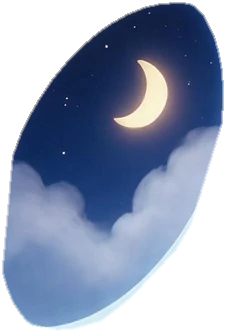
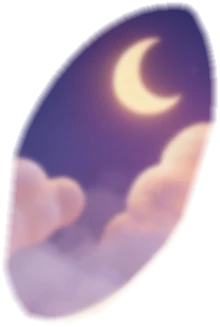
Moon Tap: a no-fail breath break on the mat (presets, open or timed, blooms on taps, practice time saved, hearts per full minute and never for taps). Window views repainted in the plate's soft focus and set deeper inside the frame's bevel

diff --git a/ovu-breathtap.js b/ovu-breathtap.js
@@ -1,0 +1,126 @@
+/* Moon Tap: a no-fail breath break. A ring opens on the in-breath and closes on the out-breath around your
+ * Luna companion. You may tap anywhere for a bloom of light, or only watch. Nothing is scored, tap timing
+ * changes nothing, and stopping at any moment saves the practice time. The design and the review that shaped
+ * it: docs/design/2026-10-18-breath-tap.md, docs/debate/2026-10-18-breath-tap-codex-review.md. */
+(function (root) {
+  'use strict';
+  var PRESETS = {
+    easy: { id: 'easy', name: 'Easy', sub: '3 in, 3 out', inMs: 3000, outMs: 3000 },
+    steady: { id: 'steady', name: 'Steady', sub: '4 in, 4 out', inMs: 4000, outMs: 4000 },
+    longout: { id: 'longout', name: 'Long out', sub: '4 in, 6 out', inMs: 4000, outMs: 6000 },
+    own: { id: 'own', name: 'My own pace', sub: 'a gentle pulse, no words', inMs: 4000, outMs: 4000, quiet: true }
+  };
+  var LENGTHS = [{ min: 3, name: '3 min' }, { min: 4, name: '4 min' }, { min: 5, name: '5 min' }, { min: 0, name: 'Open' }];
+  var MIN_SAVE_S = 5;
+  function ease(x) { x = Math.max(0, Math.min(1, x)); return 0.5 - 0.5 * Math.cos(Math.PI * x); }
+  /* where the ring is t ms into a session: the phase, progress through it, and the ring's size from 0 to 1 */
+  function phaseAt(preset, t) {
+    var p = PRESETS[preset] || PRESETS.easy, cycle = p.inMs + p.outMs, u = ((t % cycle) + cycle) % cycle, n = Math.floor(t / cycle);
+    if (u < p.inMs) { var a = u / p.inMs; return { phase: 'in', progress: a, size: ease(a), cycle: n }; }
+    var b = (u - p.inMs) / p.outMs; return { phase: 'out', progress: b, size: 1 - ease(b), cycle: n };
+  }
+  /* the saved entry: practice time, the preset, whether taps were used. Nothing about accuracy, no breath counts. */
+  function entryFor(seconds, preset, taps, plannedMin) {
+    seconds = Math.max(0, Math.round(Number(seconds) || 0));
+    return { kind: 'breathtap', seconds: seconds, minutes: Math.round(seconds / 6) / 10, preset: PRESETS[preset] ? preset : 'easy', taps: Math.max(0, taps | 0), planned: plannedMin || 0, completed: !!(plannedMin && seconds >= plannedMin * 60 - 2) };
+  }
+
+  /* ---- the screen ---- */
+  var el = null, state = null, raf = 0, opts = {}, audio = null, reduced = false;
+  function h(html) { var d = document.createElement('div'); d.innerHTML = html.trim(); return d.firstChild; }
+  function $(s) { return el ? el.querySelector(s) : null; }
+  function store() { return root.OvuStore || null; }
+  function soundOn() { try { var s = store(); return !s || !!s.state().sound; } catch (e) { return true; } }
+  function build() {
+    if (el) return el;
+    reduced = root.matchMedia && root.matchMedia('(prefers-reduced-motion: reduce)').matches;
+    el = h('<div class="btap" id="btap" role="dialog" aria-label="Moon Tap, a breath break" hidden>' +
+      '<div class="w-stars" aria-hidden="true"></div>' +
+      '<div class="btap-card" id="btapCard">' +
+        '<h2>Moon Tap</h2>' +
+        '<p>Breathe comfortably. Tap if you like, or simply watch. You don’t need to match the ring.</p>' +
+        '<div class="btap-chips" id="btapPresets" role="group" aria-label="Pace"></div>' +
+        '<div class="btap-chips" id="btapLengths" role="group" aria-label="How long"></div>' +
+        '<p class="safe">Breathe gently, without forcing a deeper or longer breath. Stop if you feel dizzy, tingly, short of breath or distressed, and return to your usual breathing.</p>' +
+        '<div class="row"><button type="button" class="btn primary" id="btapBegin"><span class="ms">blur_on</span>Begin</button><button type="button" class="btn ghost" id="btapClose">Close</button></div>' +
+      '</div>' +
+      '<div class="btap-stage" id="btapStage" hidden>' +
+        '<div class="btap-ring" id="btapRing"><img id="btapPet" alt=""></div>' +
+        '<div class="btap-word" id="btapWord" aria-live="polite"></div>' +
+        '<button type="button" class="btn btap-stop" id="btapStop">Stop</button>' +
+      '</div>' +
+      '<div class="btap-card btap-done" id="btapDone" hidden><b>Your pause is saved.</b><p id="btapSum"></p><div class="row"><button type="button" class="btn primary" id="btapDoneClose">Close</button></div></div>' +
+    '</div>');
+    document.body.appendChild(el);
+    $('#btapPresets').innerHTML = Object.keys(PRESETS).map(function (k) { var p = PRESETS[k]; return '<button type="button" data-preset="' + k + '" class="' + (k === 'easy' ? 'on' : '') + '" aria-pressed="' + (k === 'easy') + '">' + p.name + '<small>' + p.sub + '</small></button>'; }).join('');
+    $('#btapLengths').innerHTML = LENGTHS.map(function (L, i) { return '<button type="button" data-min="' + L.min + '" class="' + (i === 0 ? 'on' : '') + '" aria-pressed="' + (i === 0) + '">' + L.name + '</button>'; }).join('');
+    el.addEventListener('click', function (e) {
+      var b = e.target.closest('[data-preset],[data-min]'); if (!b) return;
+      var group = b.parentNode; Array.prototype.forEach.call(group.children, function (c) { c.classList.toggle('on', c === b); c.setAttribute('aria-pressed', c === b); });
+    });
+    $('#btapBegin').addEventListener('click', start);
+    $('#btapClose').addEventListener('click', close);
+    $('#btapDoneClose').addEventListener('click', close);
+    $('#btapStop').addEventListener('click', function () { stop(false); });
+    $('#btapStage').addEventListener('pointerdown', function (e) { if (e.target.closest('#btapStop')) return; bloom(e.clientX, e.clientY); });
+    document.addEventListener('keydown', function (e) { if (!state || el.hidden) return; if (e.key === ' ' || e.key === 'Enter') { if (e.target && /BUTTON|INPUT|TEXTAREA/.test(e.target.tagName)) return; e.preventDefault(); var r = $('#btapRing').getBoundingClientRect(); bloom(r.left + r.width / 2, r.top + r.height / 2); } if (e.key === 'Escape') stop(false); });
+    return el;
+  }
+  function open(o) {
+    opts = o || {}; build();
+    var pet = $('#btapPet'); pet.src = opts.pet || (root.OvuMascot ? OvuMascot.src(null, false) : 'assets/room/dream/orb-bunny.webp');
+    $('#btapCard').hidden = false; $('#btapStage').hidden = true; $('#btapDone').hidden = true; el.hidden = false;
+    document.body.classList.add('btap-open');
+  }
+  function close() { if (state) stop(false, true); if (el) el.hidden = true; document.body.classList.remove('btap-open'); if (opts.onClose) opts.onClose(); }
+  function start() {
+    var preset = ($('#btapPresets .on') || {}).dataset ? $('#btapPresets .on').dataset.preset : 'easy';
+    var plan = Number(($('#btapLengths .on') || { dataset: { min: 3 } }).dataset.min) || 0;
+    state = { preset: preset, plan: plan, startedAt: Date.now(), taps: 0, lastPhase: '' };
+    $('#btapCard').hidden = true; $('#btapDone').hidden = true; $('#btapStage').hidden = false;
+    $('#btapWord').textContent = PRESETS[preset].quiet ? '' : 'in';
+    tick();
+  }
+  function tick() {
+    if (!state) return;
+    var t = Date.now() - state.startedAt, ph = phaseAt(state.preset, t), ring = $('#btapRing'), word = $('#btapWord');
+    if (reduced) { ring.style.transform = 'translate(-50%,-50%) scale(.95)'; ring.style.opacity = String(0.55 + 0.45 * ph.size); }
+    else ring.style.transform = 'translate(-50%,-50%) scale(' + (0.72 + 0.38 * ph.size).toFixed(3) + ')';
+    if (ph.phase !== state.lastPhase) { state.lastPhase = ph.phase; if (!PRESETS[state.preset].quiet) word.textContent = ph.phase === 'in' ? 'in' : 'out'; }
+    if (state.plan && t >= state.plan * 60000) { stop(true); return; }
+    raf = root.requestAnimationFrame(tick);
+  }
+  function bloom(x, y) {
+    if (!state) return;
+    state.taps += 1;
+    var r = el.getBoundingClientRect(), p = document.createElement('span'); p.className = 'btap-petal'; p.style.left = (x - r.left) + 'px'; p.style.top = (y - r.top) + 'px';
+    $('#btapStage').appendChild(p); setTimeout(function () { p.remove(); }, 1500);
+    tone(); haptic();
+  }
+  function tone() {
+    if (!soundOn()) return;
+    try {
+      audio = audio || new (root.AudioContext || root.webkitAudioContext)();
+      [220, 330].forEach(function (f, i) {
+        var o = audio.createOscillator(), g = audio.createGain(); o.type = 'sine'; o.frequency.value = f;
+        g.gain.setValueAtTime(0.0001, audio.currentTime); g.gain.exponentialRampToValueAtTime(i ? 0.03 : 0.05, audio.currentTime + 0.05); g.gain.exponentialRampToValueAtTime(0.0001, audio.currentTime + 1.1);
+        o.connect(g); g.connect(audio.destination); o.start(); o.stop(audio.currentTime + 1.2);
+      });
+    } catch (e) { /* no audio */ }
+  }
+  function haptic() { try { if (root.navigator && root.navigator.vibrate) root.navigator.vibrate(12); } catch (e) { } }
+  function stop(completed, silent) {
+    if (!state) return null;
+    root.cancelAnimationFrame(raf);
+    var seconds = (Date.now() - state.startedAt) / 1000, data = entryFor(seconds, state.preset, state.taps, state.plan), ev = null, s = store();
+    state = null;
+    if (data.seconds >= MIN_SAVE_S && s) { try { ev = s.add('mindfulness', s.today(), data, 'room'); if (opts.onSaved) opts.onSaved(ev); } catch (e) { ev = null; } }
+    if (silent) return ev;
+    $('#btapStage').hidden = true; $('#btapDone').hidden = false;
+    var m = Math.floor(data.seconds / 60), sec = data.seconds % 60;
+    $('#btapDone b').textContent = ev ? 'Your pause is saved.' : 'That was a short one.';
+    $('#btapSum').textContent = (ev ? 'Practice time ' + (m ? m + ' min ' : '') + sec + ' s' : 'Stay a little longer next time and it will count as practice time') + (data.taps ? ' · ' + data.taps + (data.taps === 1 ? ' bloom' : ' blooms') : '') + '.';
+    return ev;
+  }
+  root.OvuBreathTap = { PRESETS: PRESETS, LENGTHS: LENGTHS, MIN_SAVE_S: MIN_SAVE_S, phaseAt: phaseAt, entryFor: entryFor, open: open, close: close, start: start, stop: stop };
+})(typeof window !== 'undefined' ? window : this);

diff --git a/room.js b/room.js
@@ -32,7 +32,7 @@
       sleeper: { x: 31, y: 58, w: 21, rot: 34 }, zzz: { x: 30, y: 44 },
       meditator: { x: 28, y: 77, w: 11.5 }, aura: { x: 28, y: 75, w: 18 }, holo: { x: 39, y: 75, w: 15 },
       window: { x: 37.3, y: 31.5, rx: 7, ry: 9.6 },
-      winPatch: { x: 29.144, y: 23.261, w: 15.353, base: 'room-v3-win-' },
+      winPatch: { x: 29.348, y: 23.424, w: 14.946, base: 'room-v3-win-' },
       props: { cat: { x: 50, y: 88, w: 9 }, dog: { x: 12, y: 74, w: 9.5 }, plant: { x: 78, y: 77, w: 9 }, bookshelf: { x: 87, y: 66, w: 10 }, lamp: { x: 84, y: 76, w: 7 }, mushlamp: { x: 84, y: 76, w: 7.5 }, starlamp: { x: 84, y: 76, w: 6.2 }, beanbag: { x: 54.5, y: 69.5, w: 10 }, armchair: { x: 54.5, y: 70, w: 11 }, scale: { x: 40, y: 73.5, w: 7 }, mewmew: { x: 62, y: 88, w: 12 } }
     },
     house: {
@@ -1811,13 +1811,14 @@
       '<div class="erin"><img src="assets/avatars/erin/erin-chibi-face.webp" alt="Erin Lee"><div><b>Erin Lee · Mindful Moments</b><small>Certified MBSR mindfulness teacher and author in Singapore. When you begin, the sheet closes and Erin’s projection sits beside you on the mat, speaking in her voice: a greeting, settling in, slow breaths with gentle reminders, and a soft close. Her words are shown as captions.</small><a href="https://mindfulmoments.sg/" target="_blank" rel="noopener">mindfulmoments.sg</a></div></div>' +
       '<div class="sessions" id="sessions"><button type="button" class="session on" data-kind="erin" data-min="3"><b>Erin · 3 minutes</b><small>Guided breathing, a soft close</small></button><button type="button" class="session" data-kind="erin" data-min="6"><b>Erin · 6 minutes</b><small>A longer settle and more reminders</small></button><button type="button" class="session" data-kind="breathe" data-min="2"><b>Just breathe · 2 min</b><small>4-4-6 orb with a quiet bell</small></button><button type="button" class="session" data-kind="breathe" data-min="5"><b>Just breathe · 5 min</b><small>Silent, follow the orb</small></button></div>' +
       '<div class="orbwrap"><div class="orb out" id="orb"></div><div class="orbtext" id="orbText">Ready when you are</div><div class="orbsub" id="orbSub">' + (mins ? Math.round(mins) + ' min this week' : 'First session this week') + '</div></div>' +
-      '<div class="row"><button class="btn primary" id="mindStart"><span class="ms">self_improvement</span>Begin</button><button class="btn soft" id="mindAcu"><span class="ms">spa</span>Cramp relief points</button></div>' +
-      '<div class="row"><button type="button" class="btn soft" id="mindEveryday"><span class="ms">home</span>Everyday practice</button><a class="btn ghost" href="https://erinmindfulmoments.substack.com/p/the-quiet-work-of-change" target="_blank" rel="noopener"><span class="ms">article</span>Read Erin</a></div>' +
+      '<div class="row"><button class="btn primary" id="mindStart"><span class="ms">self_improvement</span>Begin</button><button type="button" class="btn soft" id="mindTap"><span class="ms">blur_on</span>Moon Tap</button></div>' +
+      '<div class="row"><button class="btn soft" id="mindAcu"><span class="ms">spa</span>Cramp relief points</button><button type="button" class="btn soft" id="mindEveryday"><span class="ms">home</span>Everyday practice</button><a class="btn ghost" href="https://erinmindfulmoments.substack.com/p/the-quiet-work-of-change" target="_blank" rel="noopener"><span class="ms">article</span>Read Erin</a></div>' +
       '<p class="help">Sessions of a minute or more are saved to your journal. Erin’s clips are pre-recorded in her cloned voice (with her consent), so this works offline once loaded.</p>');
     $('#sessions').addEventListener('click', function (e) { var b = e.target.closest('.session'); if (!b || session) return; $$('.session').forEach(function (x) { x.classList.toggle('on', x === b); }); });
     $('#mindStart').addEventListener('click', function () { if (session) return; var sel = $('.session.on'); runSession(sel.dataset.kind, Number(sel.dataset.min)); });
     $('#mindAcu').addEventListener('click', openAcupressure);
     $('#mindEveryday').addEventListener('click', function () { openEveryday(); });
+    $('#mindTap').addEventListener('click', function () { if (!window.OvuBreathTap) return; chime('tap'); hideSheet(); OvuBreathTap.open({ pet: window.OvuMascot ? OvuMascot.src(null, false) : null, onSaved: function (ev) { afterSave(ev); }, onClose: function () { renderDeck(); } }); });
   }
 
   /* ---------- acupressure: numbered points on your avatar, then a zoomed locator ---------- */

diff --git a/tools/test-core.js b/tools/test-core.js
@@ -13,7 +13,7 @@ function fresh(todayIso) {
   w.window = w; w.self = w; w.globalThis = w;
   var ctx = vm.createContext(w);
   w.Uint8Array = Uint8Array; w.ArrayBuffer = ArrayBuffer; w.isFinite = isFinite; w.isNaN = isNaN; w.Blob = Blob; w.File = File;
-  ['ovu-store.js', 'ovu-food.js', 'ovu-nova.js', 'ovu-agents.js', 'ovu-orb.js', 'ovu-rewards.js', 'ovu-pets.js', 'ovu-pdf.js', 'ovu-mascot.js', 'assets/vendor/fflate-0.8.2.umd.min.js', 'ovu-health.js'].forEach(function (f) { vm.runInContext(fs.readFileSync(path.join(root, f), 'utf8'), ctx, { filename: f }); });
+  ['ovu-store.js', 'ovu-food.js', 'ovu-nova.js', 'ovu-agents.js', 'ovu-orb.js', 'ovu-rewards.js', 'ovu-pets.js', 'ovu-pdf.js', 'ovu-mascot.js', 'assets/vendor/fflate-0.8.2.umd.min.js', 'ovu-health.js', 'ovu-breathtap.js'].forEach(function (f) { vm.runInContext(fs.readFileSync(path.join(root, f), 'utf8'), ctx, { filename: f }); });
   if (todayIso) { var S = w.OvuStore; if (typeof S.today === 'function') { S._today = S.today; S.today = function () { return todayIso; }; } }
   return w;
 }
@@ -609,6 +609,27 @@ function scenes(todayIso) {
   check('every shelf item has a sprite on disk', RW.SHOP.filter(function (s) { return s.kind === 'treat' || s.kind === 'accessory'; }).every(function (s) { return fs.existsSync(path.join(root, 'assets/room/dream', s.img)); }));
   check('every pet has a rendered sprite for every accessory', ['cat', 'catblack', 'catginger', 'dog', 'shiba', 'mewmew'].every(function (id) { return ['acc-bow', 'acc-hat', 'acc-bandana', 'acc-charm'].every(function (acc) { var f = P.wornSprite(id, acc); return f && fs.existsSync(path.join(root, 'assets/room/dream', f)); }); }));
   check('head and neck spots exist for every pet', ['cat', 'catblack', 'catginger', 'dog', 'shiba', 'mewmew'].every(function (id) { return P.wearSpot(id, 'head').w > 0 && P.wearSpot(id, 'neck').w > 0; }));
+})();
+
+(function moonTap() {
+  console.log('Moon Tap: the ring follows the preset, stopping saves seconds, hearts never depend on taps');
+  var w = fresh(), T = w.OvuBreathTap, RW = w.OvuRewards, S = w.OvuStore;
+  var p0 = T.phaseAt('easy', 0), p1 = T.phaseAt('easy', 1500), p2 = T.phaseAt('easy', 3000), p3 = T.phaseAt('easy', 6000), p4 = T.phaseAt('longout', 4000 + 3000);
+  check('easy starts closed on the in-breath', p0.phase === 'in' && p0.size < 0.01);
+  check('halfway through the in-breath the ring is half open', p1.phase === 'in' && Math.abs(p1.size - 0.5) < 0.01, p1.size);
+  check('at three seconds the out-breath begins fully open', p2.phase === 'out' && p2.size > 0.99);
+  check('six seconds later a new cycle starts', p3.cycle === 1 && p3.phase === 'in');
+  check('long out: three seconds into the six second out-breath is half way', p4.phase === 'out' && Math.abs(p4.progress - 0.5) < 0.01);
+  var e = T.entryFor(50.4, 'steady', 3, 3);
+  check('an early stop keeps the seconds, the preset and the taps, and is not completed', e.seconds === 50 && e.preset === 'steady' && e.taps === 3 && !e.completed && e.minutes === 0.8, JSON.stringify(e));
+  check('a full planned session counts as completed', T.entryFor(179, 'easy', 0, 3).completed === true);
+  var l0 = RW.ledger(), before = l0.hearts, day = l0.lastDay;
+  var r1 = RW.award(S.add('mindfulness', S.today(), T.entryFor(50, 'easy', 40, 0), 'room'));
+  var r2 = RW.award(S.add('mindfulness', S.today(), T.entryFor(55, 'easy', 0, 0), 'room'));
+  check('fifty seconds earns nothing yet, the next fifty-five complete a minute for two hearts', r1.points === 0 && r2.points === 2 && RW.ledger().hearts === before + 2, r1.points + '/' + r2.points);
+  check('the leftover forty-five seconds carry on', RW.ledger().breathCarry === 45, RW.ledger().breathCarry);
+  check('Moon Tap never touches the daily streak', RW.ledger().lastDay === day && r2.bonus === 0);
+  check('taps change nothing: forty taps and none earned the same', r1.points === 0);
 })();
 
 console.log('\n' + passes + ' passed, ' + fails + ' failed');

diff --git a/room.css b/room.css
@@ -1303,3 +1303,30 @@ textarea.input{min-height:72px;resize:vertical;line-height:1.4}
 .itemcard small{display:flex;align-items:center;gap:4px;margin-top:5px;font:700 11.5px var(--sans);color:var(--rm-ink-3)}
 .itemcard small .ms{font-size:14px;color:#e58aa8}
 @media (prefers-reduced-motion: reduce){.shopprop.kind-pet img{animation:none!important}}
+
+/* Moon Tap: a no-fail breath break (ovu-breathtap.js) */
+.btap{position:fixed;inset:0;z-index:120;display:flex;align-items:center;justify-content:center;background:radial-gradient(120% 90% at 50% 10%,#3b2a5e 0%,#1b1330 60%,#120c22 100%);color:#f1e9fb;font-family:var(--sans);overflow:hidden;padding:16px}
+.btap[hidden]{display:none}
+.btap .w-stars{opacity:.9}
+.btap-card{position:relative;z-index:2;width:min(92vw,400px);background:rgba(255,255,255,.08);backdrop-filter:blur(14px);-webkit-backdrop-filter:blur(14px);border:1px solid rgba(255,255,255,.14);border-radius:24px;padding:20px 18px;display:flex;flex-direction:column;gap:12px;text-align:center}
+.btap-card[hidden]{display:none}
+.btap-card h2{font-family:var(--serif);font-weight:600;font-size:26px;color:#fff}
+.btap-card p{font:600 13px/1.5 var(--sans);color:#d9cdef}
+.btap-card .safe{font:600 11.5px/1.5 var(--sans);color:#b9abd6}
+.btap-chips{display:flex;flex-wrap:wrap;gap:8px;justify-content:center}
+.btap-chips button{border:1px solid rgba(255,255,255,.18);background:rgba(255,255,255,.08);color:#f1e9fb;border-radius:999px;padding:8px 12px;font:800 12px var(--sans);cursor:pointer;min-width:0}
+.btap-chips button.on{background:#f1e9fb;color:#3b2d52}
+.btap-chips button small{display:block;font:600 10px var(--sans);opacity:.8}
+.btap .btn.primary{box-shadow:0 10px 26px rgba(117,86,196,.45),0 0 28px rgba(226,210,255,.4)}
+.btap .btn.ghost{color:#d9cdef;border-color:rgba(255,255,255,.2)}
+.btap-stage{position:absolute;inset:0;z-index:1;touch-action:manipulation;cursor:pointer}
+.btap-stage[hidden]{display:none}
+.btap-ring{position:absolute;left:50%;top:44%;width:min(62vw,300px);aspect-ratio:1;transform:translate(-50%,-50%) scale(.75);border-radius:50%;border:2px solid rgba(255,255,255,.55);box-shadow:0 0 40px rgba(214,196,255,.45),inset 0 0 40px rgba(214,196,255,.25);display:flex;align-items:center;justify-content:center;will-change:transform;pointer-events:none}
+.btap-ring img{width:48%;filter:drop-shadow(0 0 18px rgba(255,236,190,.6));animation:moonfloat 6s ease-in-out infinite}
+.btap-word{position:absolute;left:50%;top:calc(44% + min(31vw,150px) + 26px);transform:translateX(-50%);font-family:var(--serif);font-size:26px;color:#fff;letter-spacing:.08em;opacity:.9;pointer-events:none}
+.btap-stop{position:absolute;left:50%;bottom:calc(28px + env(safe-area-inset-bottom,0px));transform:translateX(-50%);min-width:140px;flex:none;background:rgba(255,255,255,.12);color:#fff;border:1px solid rgba(255,255,255,.22)}
+.btap-petal{position:absolute;width:26px;height:26px;margin:-13px 0 0 -13px;border-radius:50%;background:radial-gradient(circle,#fff7e6 0%,rgba(255,214,236,.85) 35%,rgba(214,196,255,0) 70%);pointer-events:none;animation:btapbloom 1.4s ease-out forwards}
+@keyframes btapbloom{0%{transform:scale(.4);opacity:0}20%{opacity:1}100%{transform:scale(4.2);opacity:0}}
+.btap-done b{display:block;font-family:var(--serif);font-weight:600;font-size:22px;color:#fff}
+body.btap-open{overflow:hidden}
+@media(prefers-reduced-motion:reduce){.btap-ring{transition:opacity .6s}.btap-ring img{animation:none}.btap-petal{animation-duration:.8s}}

diff --git a/ovu-rewards.js b/ovu-rewards.js
@@ -50,6 +50,13 @@
   /* Award for a saved entry; a first log on a new day also grows the streak. */
   function award(ev) {
     if (ev.type === 'weight') return { points: 0, bonus: 0, hearts: ledger().hearts }; /* numbers are never rewarded */
+    if (ev.type === 'mindfulness' && ev.data && ev.data.kind === 'breathtap') {
+      /* Moon Tap: 2 hearts per full minute of practice, seconds carried between sessions, capped like other practice, no streak bonus, nothing for taps */
+      var lb = ledger(), carry = (lb.breathCarry || 0) + Math.max(0, Number(ev.data.seconds) || 0), whole = Math.floor(carry / 60), bp = Math.min(20, whole * 2);
+      lb.breathCarry = carry - whole * 60;
+      if (bp) { lb.hearts += bp; lb.earned += bp; lb.log = lb.log || []; lb.log.unshift({ at: new Date().toISOString(), type: 'breathtap', points: bp }); lb.log = lb.log.slice(0, 200); }
+      write(lb); return { points: bp, bonus: 0, hearts: lb.hearts, streak: lb.streak };
+    }
     var l = ledger(), pts = RULES[ev.type] || 0;
     if (ev.type === 'food') pts += Math.min(6, ((ev.data.items || []).length) * 2);
     if (ev.type === 'mindfulness') pts = ev.data.kind === 'informal' ? 5 + (ev.data.first ? 10 : 0) : Math.min(20, Math.round(Number(ev.data.minutes) || 0) * 2); /* everyday practice: 5, +10 the first time (jev 0.58 / 0.72) */

diff --git a/sw.js b/sw.js
@@ -2,7 +2,7 @@
  * notification plumbing for reminders. Pages, scripts and styles go network
  * first so a new release is never mixed with an old one; media and fonts are
  * cached first because their file names change when their content does. */
-var VERSION = 'ovumind-2026-10-18v';
+var VERSION = 'ovumind-2026-10-18w';
 var MEDIA = /\.(?:webp|png|jpe?g|gif|svg|mp3|mp4|woff2?|ttf|wasm)(\?.*)?$/i;
 var CODE = /\.(?:css|js|json|html)(\?.*)?$/i;
 

diff --git a/room.html b/room.html
@@ -143,6 +143,7 @@
 <script src="ovu-mindful.js"></script>
 <script src="ovu-pets.js"></script>
 <script src="ovu-mascot.js"></script>
+<script src="ovu-breathtap.js"></script>
 <script src="ovu-nova.js"></script>
 <script src="ovu-sun.js"></script>
 <script src="ovu-evidence.js"></script>

diff --git a/tools/e2e_smoke.py b/tools/e2e_smoke.py
@@ -245,6 +245,15 @@ async def main():
             await p3.goto(BASE + "hormones.html", wait_until="load"); await p3.wait_for_timeout(700)
             check("a v1 consent is sent back to the room to be asked again", p3.url.endswith("room.html"), p3.url)
             await ctx3.close()
+            # Moon Tap: open from the mat sheet, begin, three blooms, stop after the minimum, the entry is saved
+            await page.goto(BASE + "room.html", wait_until="networkidle"); await page.wait_for_selector(".hotspot"); await page.wait_for_timeout(800)
+            await page.click("nav a[data-tab=mind]"); await page.wait_for_selector("#mindTap", timeout=8000); await page.click("#mindTap"); await page.wait_for_selector("#btapBegin", timeout=8000)
+            await page.click("#btapBegin"); await page.wait_for_timeout(5600)
+            for _ in range(3): await page.mouse.click(195, 300); await page.wait_for_timeout(150)
+            petals = await page.evaluate("()=>document.querySelectorAll('.btap-petal').length")
+            await page.click("#btapStop"); await page.wait_for_timeout(600)
+            tap = await page.evaluate("()=>{var d=JSON.parse(localStorage.getItem('ovumind_db_v1')); var e=d.events.filter(x=>x.type==='mindfulness'&&x.data.kind==='breathtap'); return {n:e.length, secs:e.length?e[e.length-1].data.seconds:0, taps:e.length?e[e.length-1].data.taps:0, done:!document.querySelector('#btapDone').hidden, text:document.querySelector('#btapDone').innerText}}")
+            check("Moon Tap blooms on taps and saves practice time on Stop", petals >= 3 and tap["n"] == 1 and tap["secs"] >= 5 and tap["taps"] == 3 and tap["done"] and "Your pause is saved" in tap["text"], tap)
             check("nothing was requested from any third party during the run", not external, external[:3])
 
             check("no page errors or console errors across the run", not errors, errors[:3])

diff --git a/tools/art/window_inpaint.py b/tools/art/window_inpaint.py
@@ -16,11 +16,12 @@ lab, n = ndimage.label(inner); m = lab == lab[cy, cx]
 m = ndimage.binary_closing(m, iterations=4); m = ndimage.binary_fill_holes(m); m = ndimage.binary_opening(m, iterations=3); m = ndimage.binary_fill_holes(m)
 pts = np.stack(np.where(m)[::-1], 1); hull = ConvexHull(pts); poly = [tuple(map(float, pts[v])) for v in hull.vertices]
 pm = Image.new('L', (W, H), 0); ImageDraw.Draw(pm).polygon(poly, fill=255); m = np.asarray(pm) > 0
-m = ndimage.binary_erosion(m, iterations=3)             # stay inside the frame's inner edge
+m = ndimage.binary_erosion(m, iterations=6)             # stay inside the frame's inner edge and its soft bevel
 ys, xs = np.where(m); x0, x1, y0, y1 = xs.min() - 2, xs.max() + 2, ys.min() - 2, ys.max() + 2
 sub = m[y0:y1 + 1, x0:x1 + 1]; h, w = sub.shape
-alpha = np.clip(ndimage.distance_transform_edt(sub) / 3.0, 0, 1)
-pv = Image.open(painted).convert('RGB').resize((512, 512), Image.LANCZOS)
+alpha = np.clip(ndimage.distance_transform_edt(sub) / 9.0, 0, 1)
+from PIL import ImageFilter
+pv = Image.open(painted).convert('RGB').resize((512, 512), Image.LANCZOS).filter(ImageFilter.GaussianBlur(2.2))   # the day view through the glass is soft focus; match it
 full = np.zeros((H, W, 3), np.uint8); full[cy0:cy0 + 512, cx0:cx0 + 512] = np.asarray(pv)
 rgb = full[y0:y1 + 1, x0:x1 + 1]
 patch = np.dstack([rgb, (alpha * 255).astype(np.uint8)])
